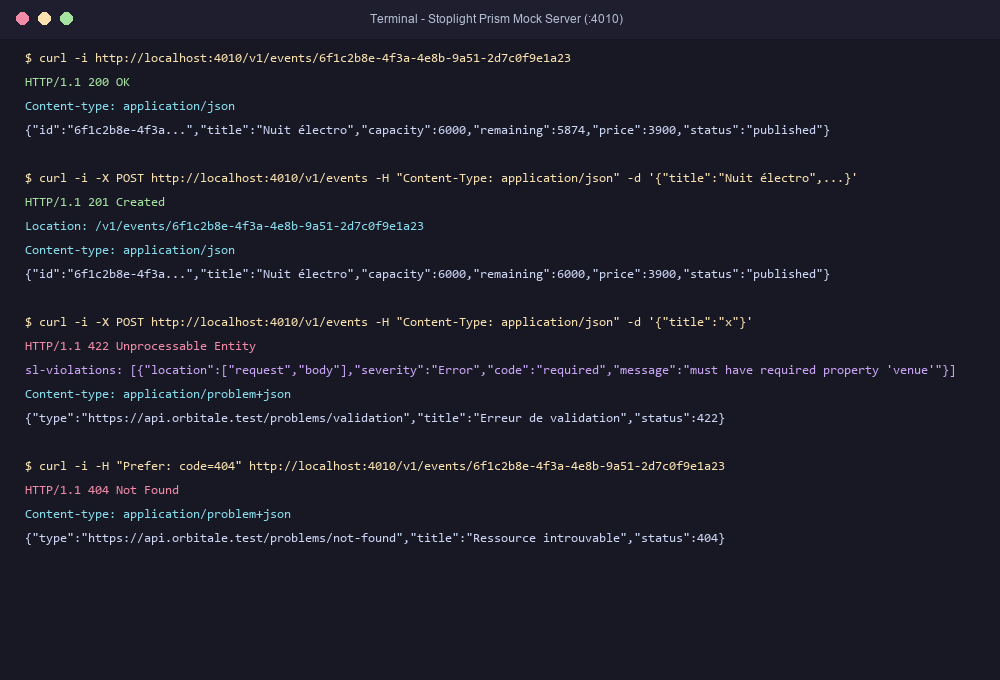
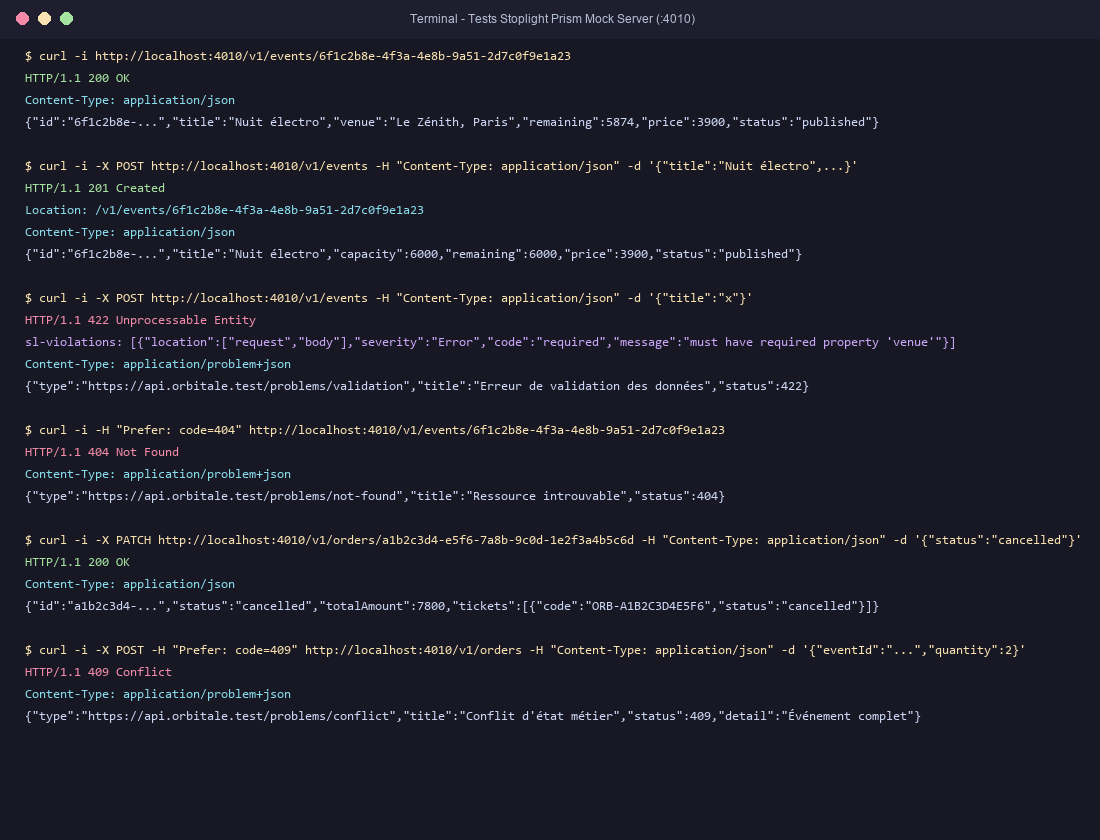
docs: ajout des noms du binôme et actualisation de mock.png

diff --git a/docs/ressources.md b/docs/ressources.md
@@ -2,7 +2,7 @@
 
 **Projet :** API RESTful de billetterie en ligne et de contrôle d'accès *Orbitale*  
 **Module :** M2 Web Services — Séance 1 : Fondamentaux REST  
-**Binôme :** NOM Prénom — NOM Prénom *(à compléter)*  
+**Binôme :** Arthur COURCHAY — Victor HABERT  
 **Date :** 20 novembre 2026  
 **Objectif architectural :** Niveau 2 de maturité de Richardson (avec prémisses niveau 3)  
 

diff --git a/docs/notes_s1.md b/docs/notes_s1.md
@@ -2,6 +2,7 @@
 ## Notes d'observation et réponses aux questions (Livrable S1)
 
 **Projet :** Orbitale  
+**Binôme :** Arthur COURCHAY — Victor HABERT  
 **Module :** M2 Web Services — Fondamentaux REST et styles d'API  
 **Date :** 20 novembre 2026  
 
